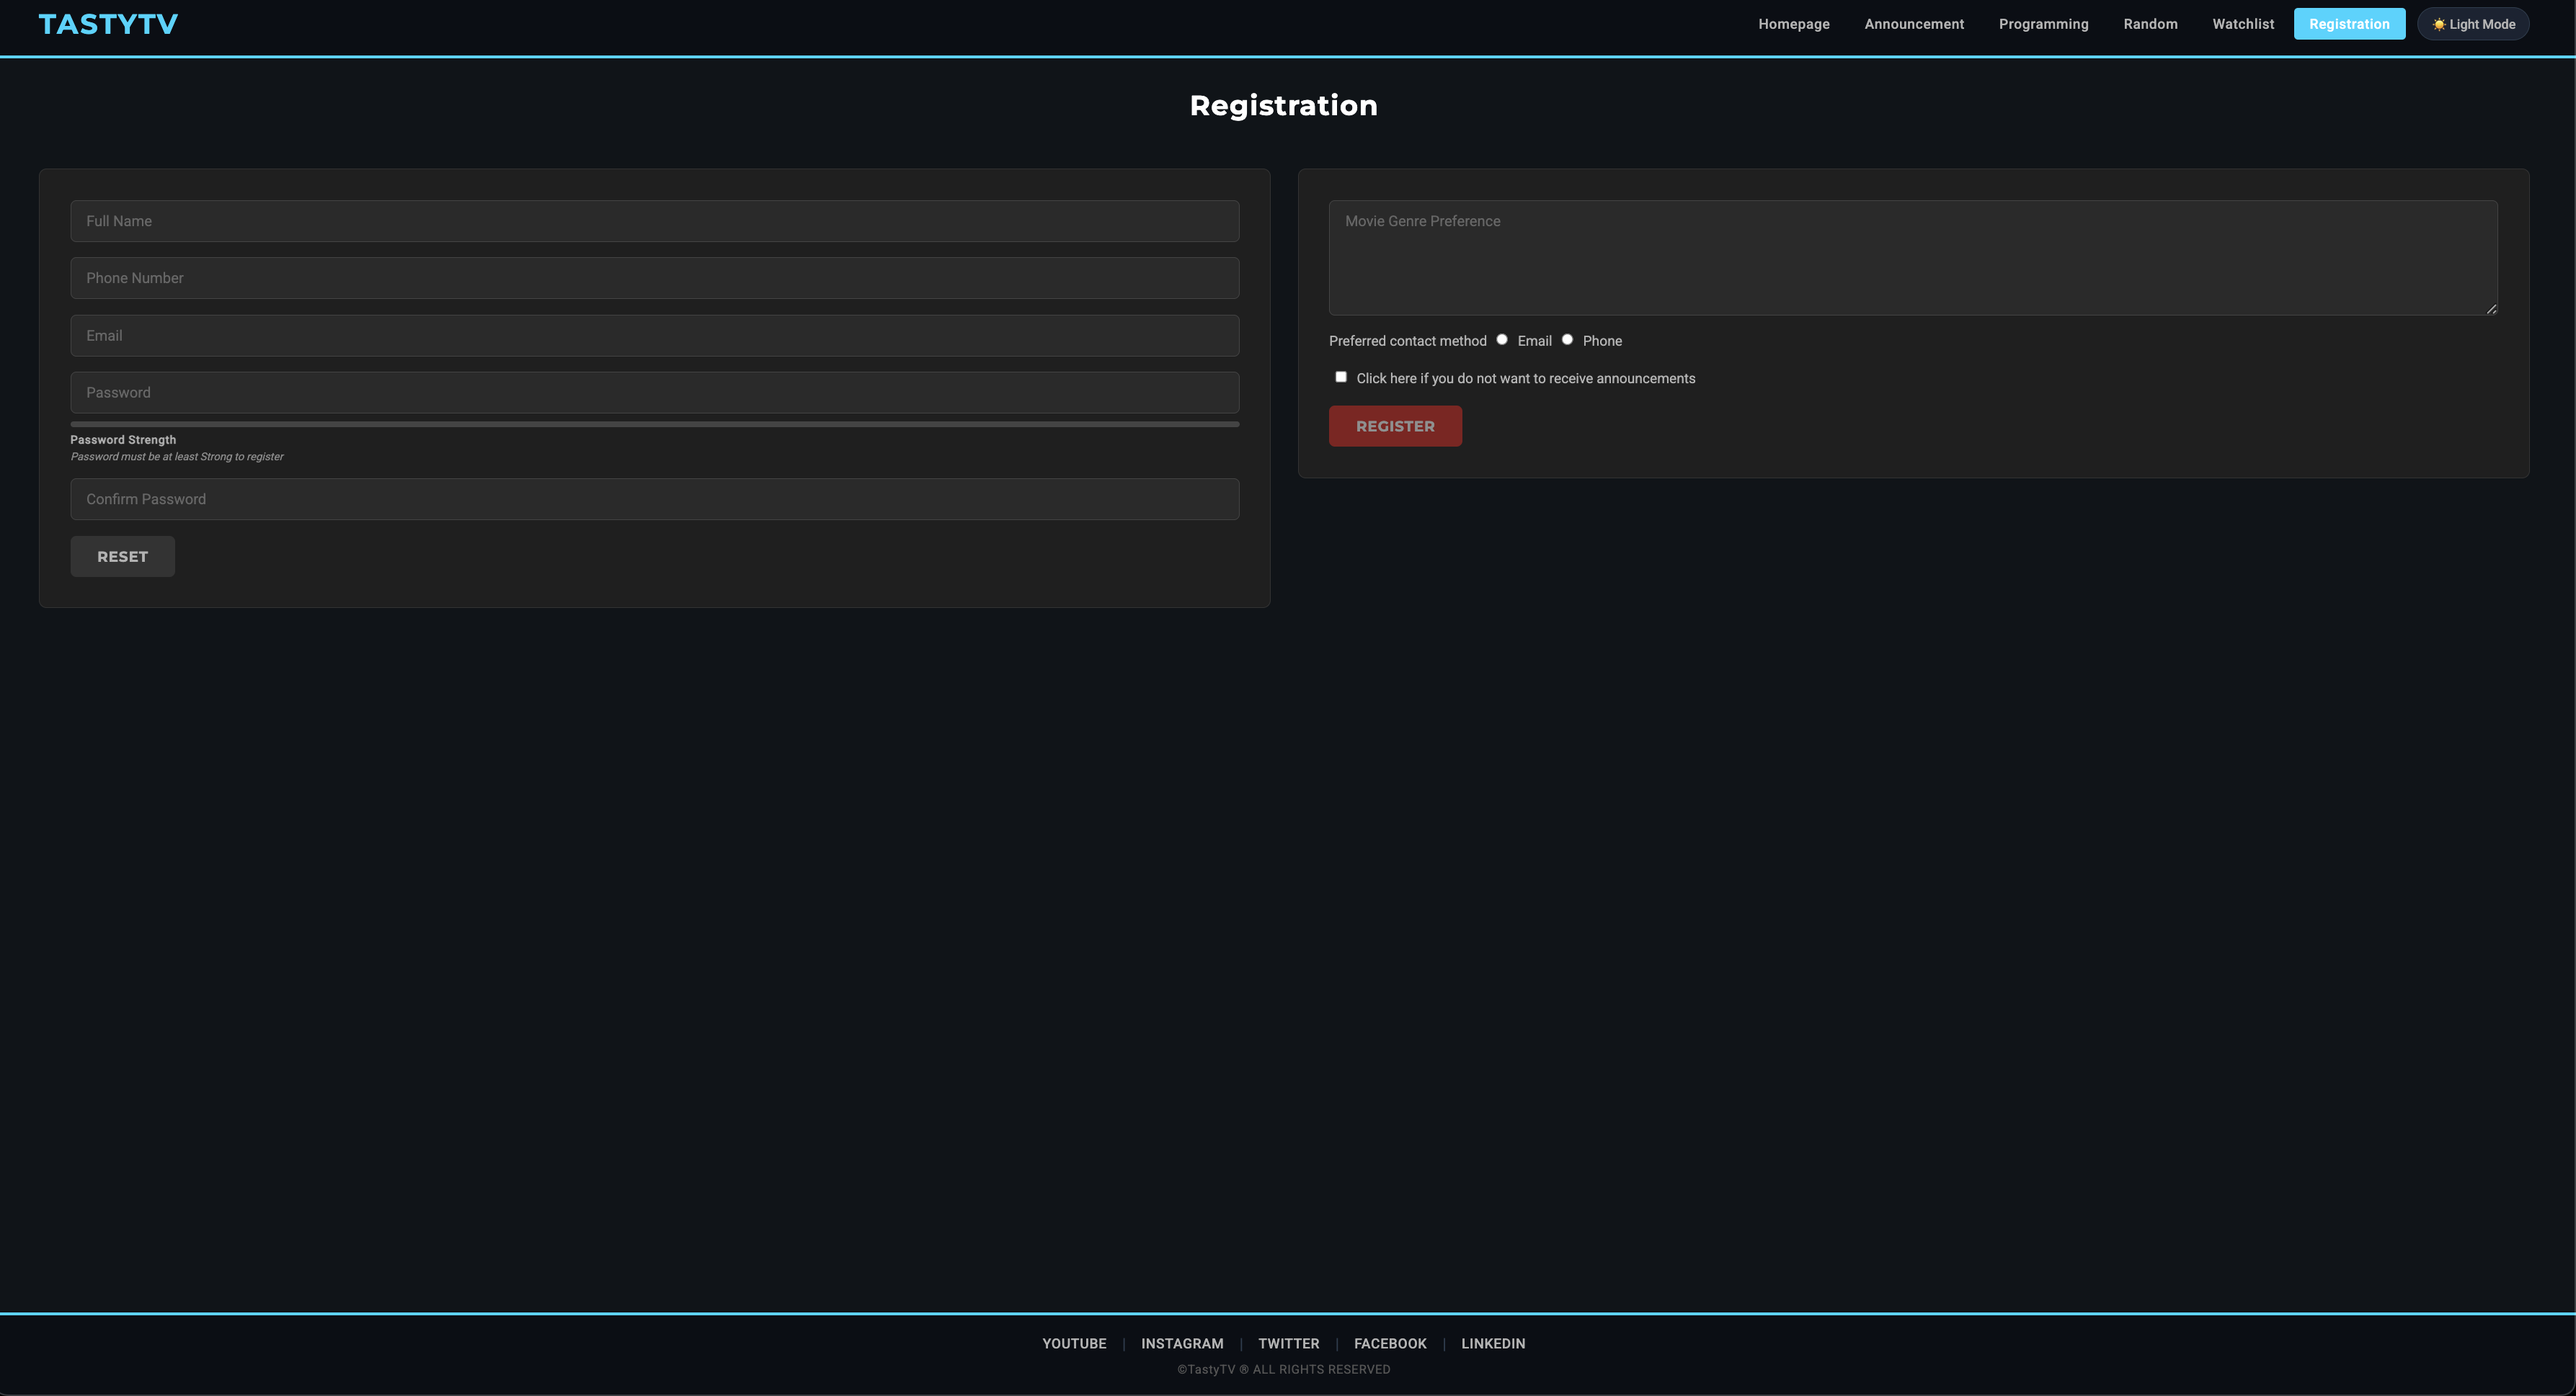
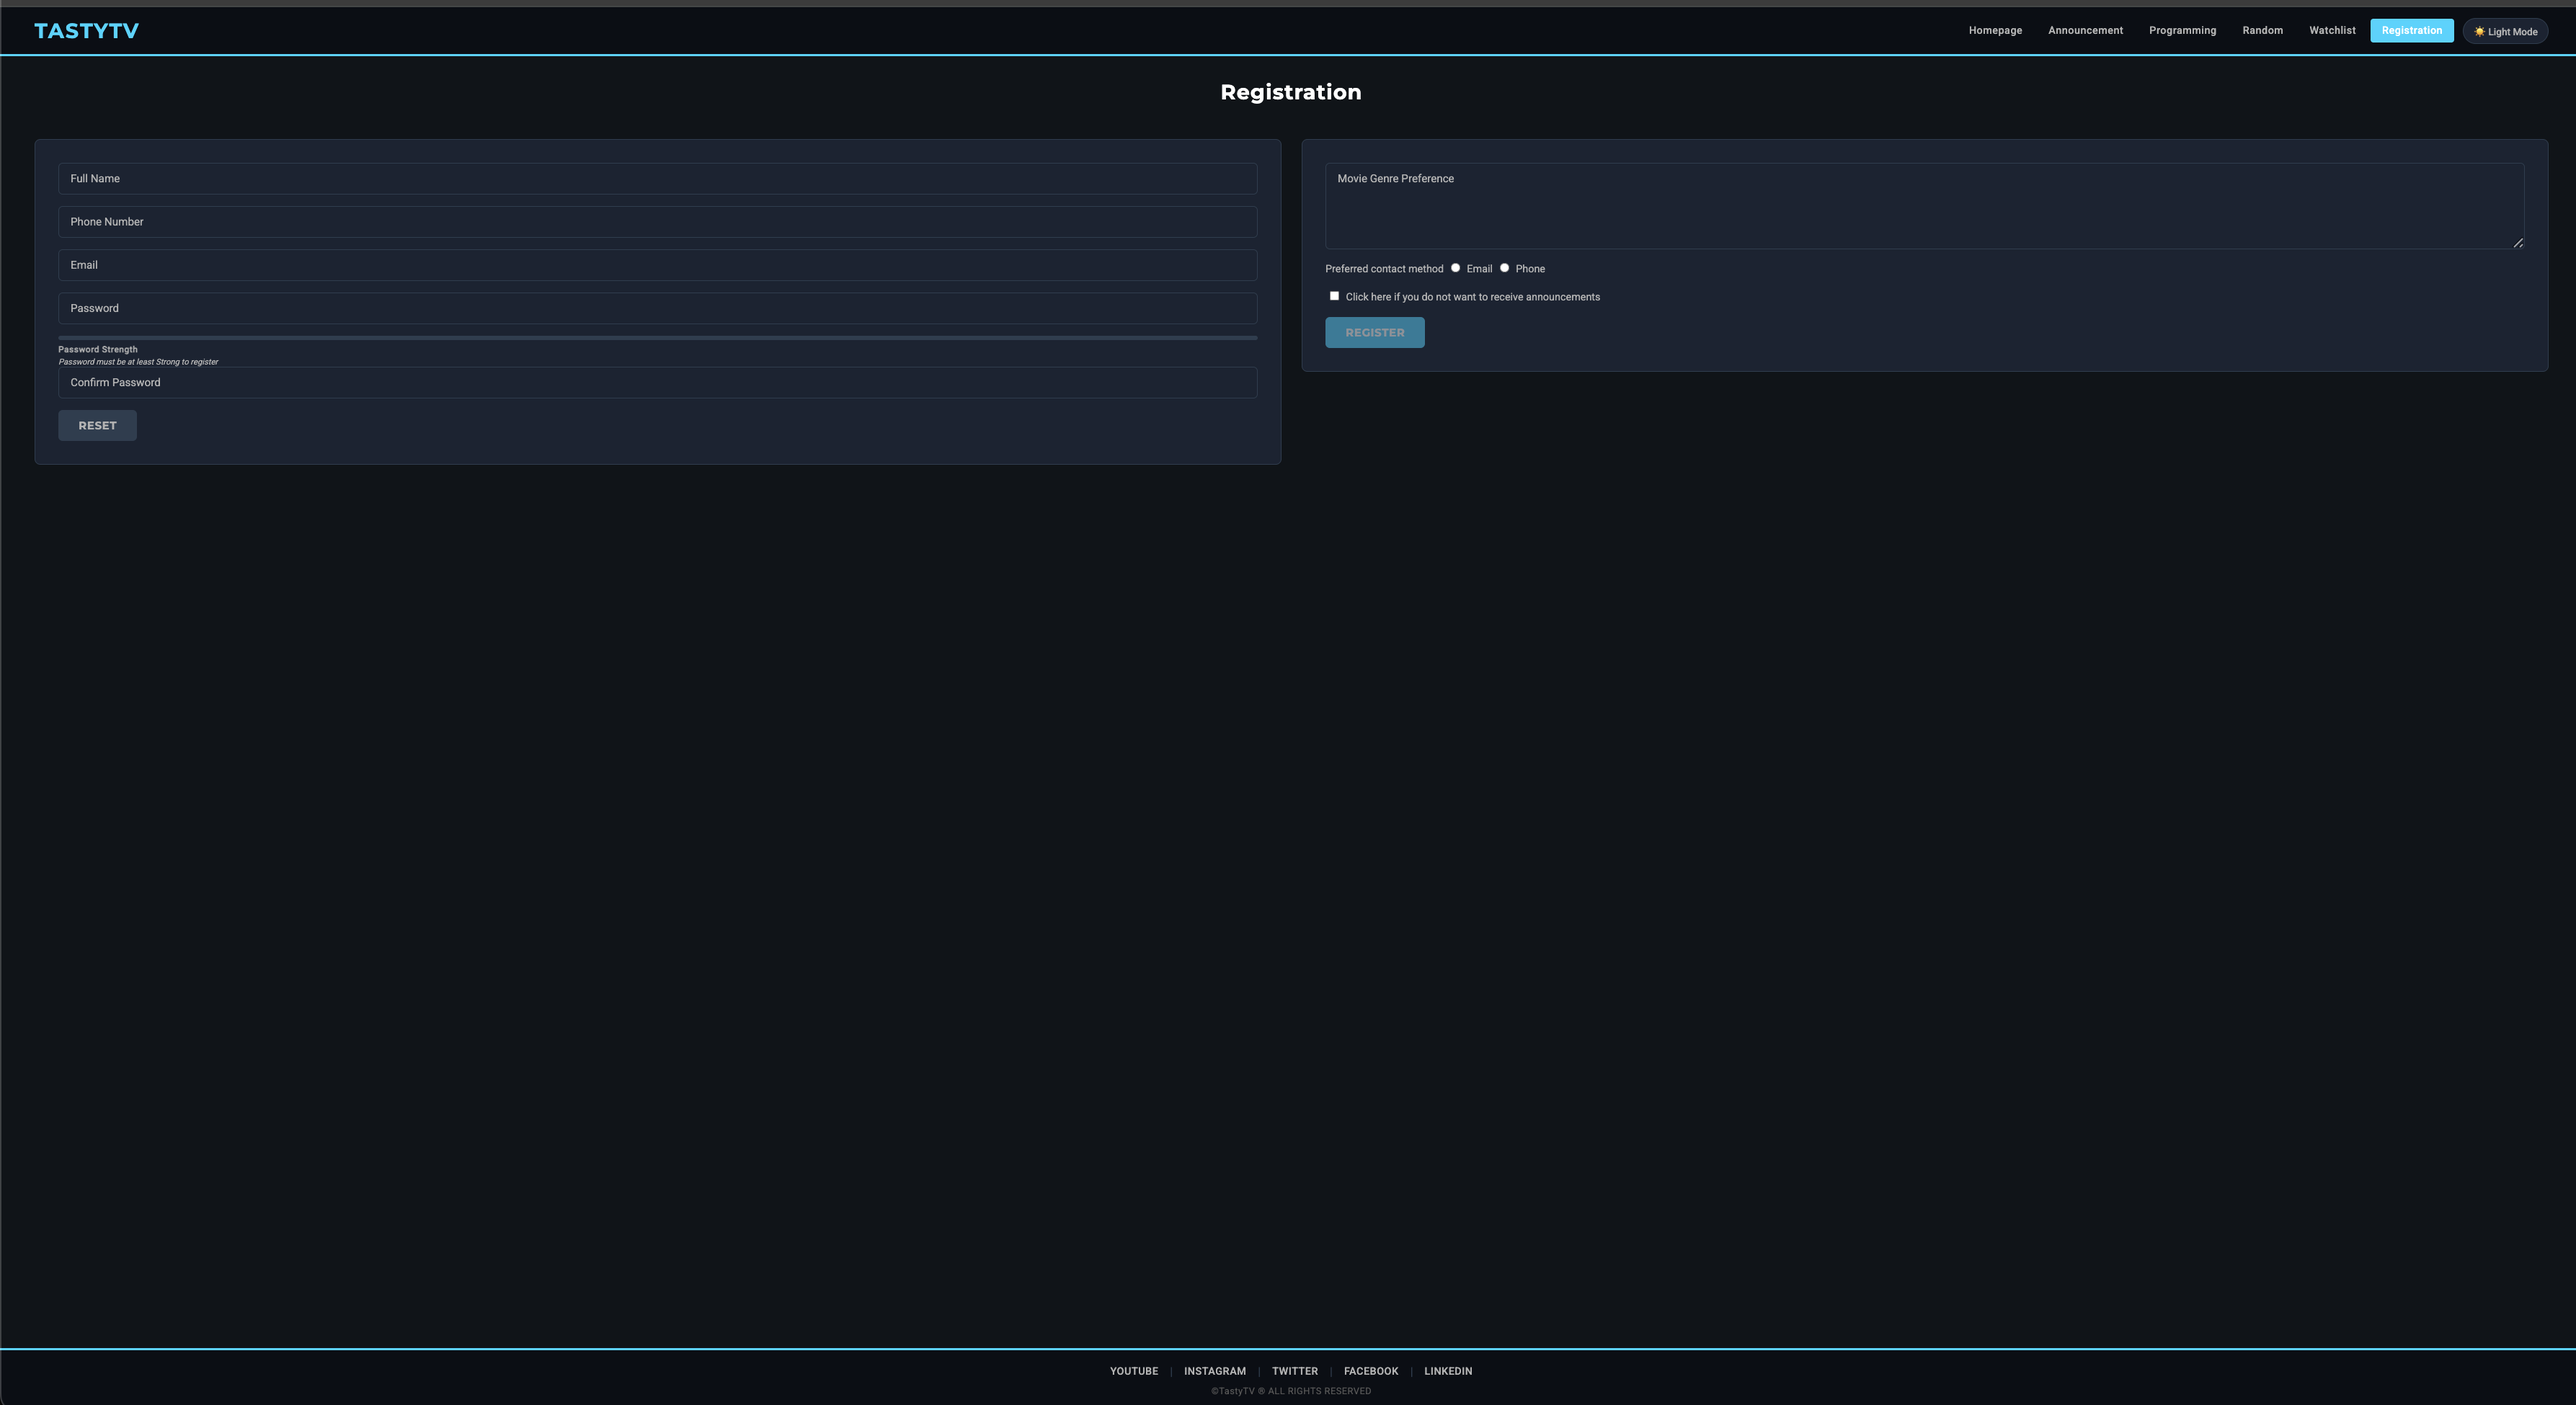
Fixed registration theme

Changed region(s): [[0.0, 0.0, 1.0, 0.4334], [0.0, 0.9288, 1.0, 1.0]]

diff --git a/src/css/registration.css b/src/css/registration.css
@@ -10,8 +10,8 @@
 }
 
 .register {
-  background-color: #1f1f1f;
-  border: 1px solid #333;
+  background-color: var(--card-bg);
+  border: 1px solid var(--card-border);
   border-radius: 8px;
   padding: 32px;
 }
@@ -23,10 +23,10 @@
 .register textarea {
   display: block;
   width: 100%;
-  background-color: #2a2a2a;
-  border: 1px solid #444;
+  background-color: var(--input-bg);
+  border: 1px solid var(--input-border);
   border-radius: 6px;
-  color: #e5e5e5;
+  color: var(--text);
   font-family: "Roboto", sans-serif;
   font-size: 0.95rem;
   padding: 12px 16px;
@@ -42,13 +42,13 @@
 .register input[type="password"]:focus,
 .register input[type="tel"]:focus,
 .register textarea:focus {
-  border-color: #e50914;
-  box-shadow: 0 0 0 3px rgba(229, 9, 20, 0.15);
+  border-color: var(--accent);
+  box-shadow: 0 0 0 3px rgba(0, 212, 255, 0.15);
 }
 
 .register input::placeholder,
 .register textarea::placeholder {
-  color: #666;
+  color: var(--text-muted);
 }
 
 .register textarea {
@@ -59,7 +59,7 @@
 
 .register label {
   display: block;
-  color: #b3b3b3;
+  color: var(--text-muted);
   font-size: 0.9rem;
   margin-bottom: 16px;
   line-height: 1.6;
@@ -68,12 +68,12 @@
 .register label input[type="radio"],
 .register label input[type="checkbox"] {
   margin: 0 6px;
-  accent-color: #e50914;
+  accent-color: var(--accent);
   cursor: pointer;
 }
 
 .button {
-  background-color: #e50914;
+  background-color: var(--accent);
   color: #ffffff;
   border: none;
   border-radius: 6px;
@@ -85,14 +85,16 @@
   cursor: pointer;
   transition:
     background-color 0.2s ease,
-    transform 0.15s ease;
+    transform 0.15s ease,
+    opacity 0.2s ease;
   text-transform: uppercase;
   margin-right: 8px;
 }
 
 .button:hover {
-  background-color: #b81d24;
+  background-color: var(--accent);
   transform: translateY(-2px);
+  opacity: 0.9;
 }
 
 .button:active {
@@ -100,12 +102,12 @@
 }
 
 #reset {
-  background-color: #333;
-  color: #b3b3b3;
+  background-color: var(--card-border);
+  color: var(--text-muted);
 }
 
 #reset:hover {
-  background-color: #444;
+  background-color: var(--pipeline-color);
 }
 
 #message {
@@ -217,15 +219,10 @@
    PASSWORD STRENGTH INDICATOR
    ============================================ */
 
-.password-strength-meter {
-  margin: -8px 0 16px 0;
-  padding: 0;
-}
-
 .strength-bar {
   width: 100%;
   height: 6px;
-  background-color: #444;
+  background-color: var(--input-border);
   border-radius: 3px;
   overflow: hidden;
   margin-bottom: 6px;
@@ -252,7 +249,7 @@
 }
 
 .strength-bar-fill.strength-strong {
-  background-color: #ffeb3b;
+  background-color: #00d4ff;
   width: 75%;
 }
 
@@ -264,7 +261,7 @@
 .strength-label {
   font-size: 0.75rem;
   font-weight: 600;
-  color: #b3b3b3;
+  color: var(--text-muted);
   text-transform: capitalize;
   margin-bottom: 4px;
   letter-spacing: 0.5px;
@@ -272,7 +269,7 @@
 
 .strength-hint {
   font-size: 0.7rem;
-  color: #888;
+  color: var(--text-muted);
   font-style: italic;
   margin-top: 4px;
 }
